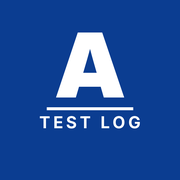
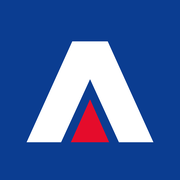
Add files via upload

Changed region(s): [[0.1389, 0.1667, 0.8611, 0.8056], [0.4444, 0.2778, 0.5556, 0.4167]]

diff --git a/index.html b/index.html
@@ -5,6 +5,7 @@
 <meta name="viewport" content="width=device-width, initial-scale=1, viewport-fit=cover">
 <title>Armstrong Test Log</title>
 <meta name="theme-color" content="#0b3d91">
+<meta name="robots" content="noindex, nofollow">
 <meta name="description" content="Log test feedback for the Armstrong R&D team.">
 <link rel="manifest" href="manifest.webmanifest">
 <link rel="icon" href="icons/favicon-48.png" sizes="48x48">
@@ -18,8 +19,13 @@
   html, body { margin: 0; height: 100%; background: var(--brand); color: #fff; font: 16px/1.5 system-ui, -apple-system, "Segoe UI", sans-serif; }
   #app { position: fixed; inset: 0; width: 100%; height: 100%; border: 0; background: var(--brand); }
   #splash { position: fixed; inset: 0; display: grid; place-items: center; text-align: center; padding: 24px; background: var(--brand); transition: opacity .3s; }
-  #splash img { width: 96px; height: 96px; border-radius: 22px; }
+  #splash img { width: min(260px, 70vw); height: auto; display: block; margin: 0 auto; }
+  #splash .sub { margin: 14px 0 0; font: 700 .8rem system-ui, sans-serif; letter-spacing: .32em; text-transform: uppercase; opacity: .85; }
   #splash p { margin: 14px 0 0; opacity: .8; font-size: .95rem; }
+  .bar { width: 120px; height: 3px; margin: 26px auto 0; background: rgba(255,255,255,.2); border-radius: 2px; overflow: hidden; }
+  .bar i { display: block; width: 40%; height: 100%; background: #e50c2b; border-radius: 2px; animation: slide 1.1s ease-in-out infinite; }
+  @keyframes slide { 0% { transform: translateX(-100%); } 100% { transform: translateX(250%); } }
+  @media (prefers-reduced-motion: reduce) { .bar i { animation: none; width: 100%; } }
   #splash.gone { opacity: 0; pointer-events: none; }
   #offline { display: none; margin-top: 18px; }
   #offline button { margin-top: 12px; font: 700 1rem system-ui, sans-serif; color: var(--brand); background: #fff; border: 0; border-radius: 6px; padding: 12px 22px; }
@@ -30,8 +36,9 @@
 <iframe id="app" title="Armstrong Test Log" allow="microphone; camera; clipboard-write; fullscreen"></iframe>
 <div id="splash" role="status">
   <div>
-    <img src="icons/icon-192.png" alt="">
-    <p id="msg">Loading the test log…</p>
+    <img src="icons/wordmark.png" alt="Armstrong">
+    <div class="sub">Test Log</div>
+    <div class="bar" id="msg" aria-label="Loading"><i></i></div>
     <div id="offline">
       <p>No connection right now. The test log needs internet to send feedback.</p>
       <button type="button" onclick="location.reload()">Try again</button>

diff --git a/sw.js b/sw.js
@@ -1,8 +1,8 @@
 // Keeps the app shell available so it opens instantly and shows a friendly offline screen.
 // The test log itself always loads live from Google (feedback can't be sent offline).
-const CACHE = 'test-log-shell-v1';
+const CACHE = 'test-log-shell-v3';
 const SHELL = ['./', 'index.html', 'manifest.webmanifest', 'icons/icon-192.png', 'icons/icon-512.png',
-  'icons/maskable-512.png', 'icons/apple-touch-icon.png', 'icons/favicon-48.png'];
+  'icons/maskable-512.png', 'icons/apple-touch-icon.png', 'icons/favicon-48.png', 'icons/wordmark.png'];
 
 self.addEventListener('install', (e) => {
   e.waitUntil(caches.open(CACHE).then((c) => c.addAll(SHELL)).then(() => self.skipWaiting()));
